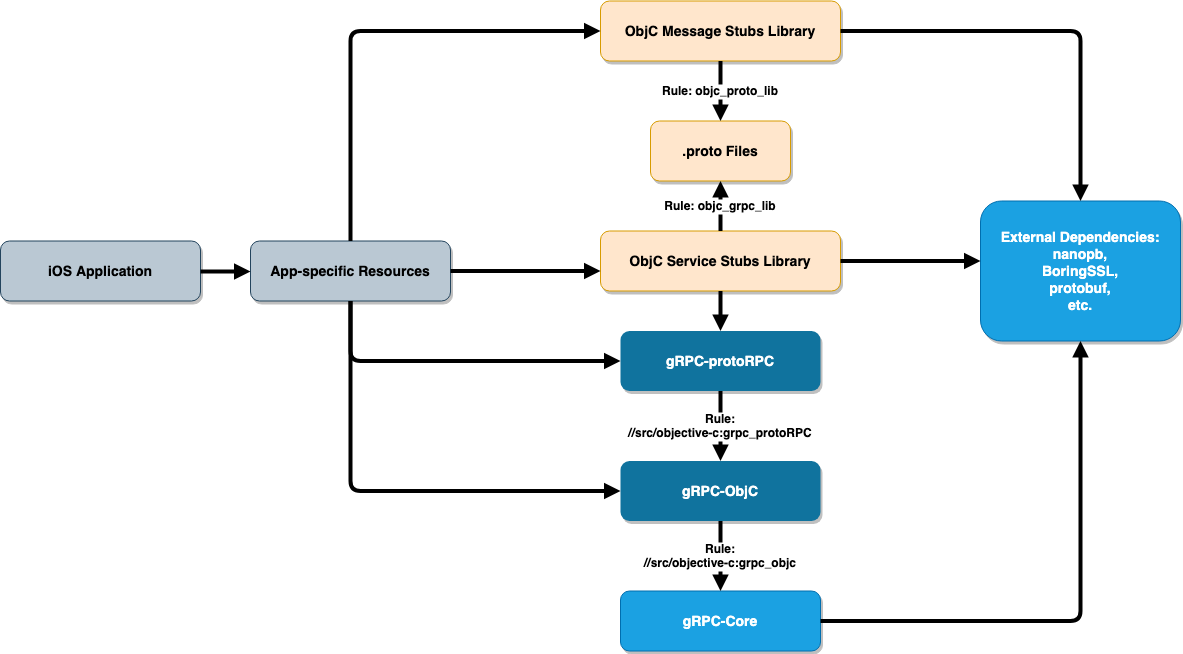
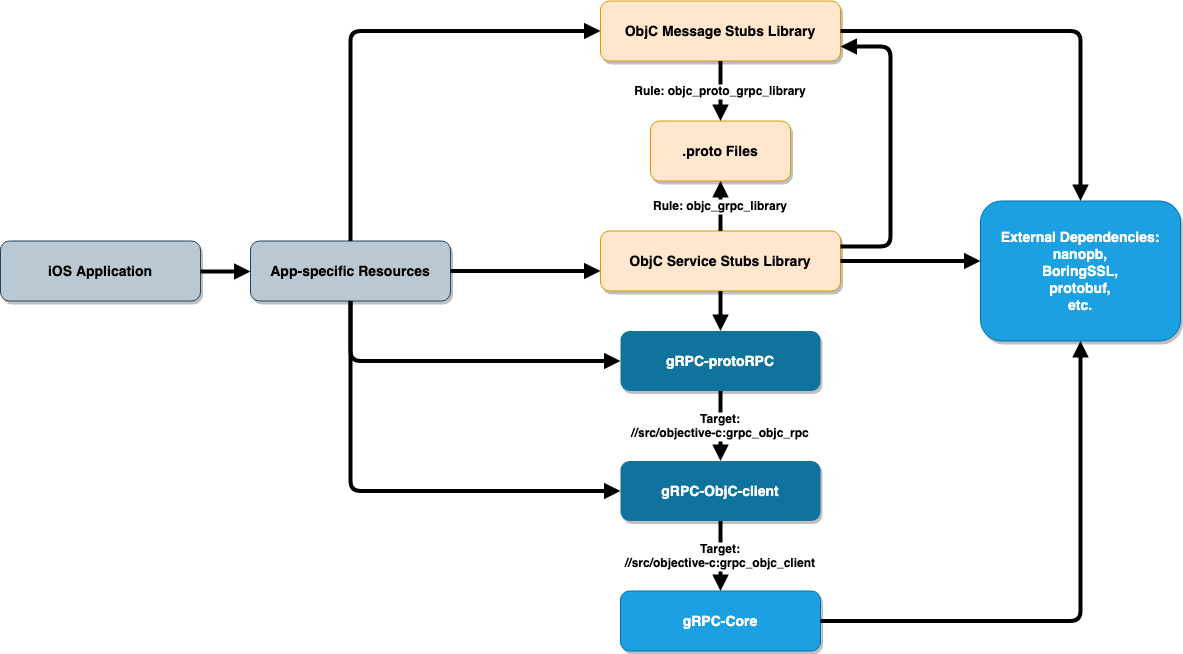
L56: rewriting proposal due to new implementation

diff --git a/L56-objc-bazel-support.md b/L56-objc-bazel-support.md
@@ -4,7 +4,7 @@ gRPC Objective-C Bazel Build Support
 * Approver: mxyan
 * Status: Draft
 * Implemented in: Bazel and Starlark
-* Last updated: Today's date
+* Last updated: Jul 11, 2019
 * Discussion at: ???
 
 ## Abstract
@@ -16,109 +16,133 @@ Proposes a set of Bazel rules for building iOS applications with gRPC Objective-
 
 The gRPC Objective-C library so far only supports installation via Cocoapods. Requests for Bazel support are continually raised.
 
-In addition to the available native rules (`objc_library` and `proto_library`), `objc_proto_lib` and `objc_grpc_lib` need to be created because the native `objc_proto_library` is actually [not usable](https://github.com/bazelbuild/bazel/issues/7348). Some other rules are also needed in order to compile the actual library.
+In addition to the available native rules (`objc_library` and `proto_library`), `objc_proto_grpc_library` (indicating that this is a working version of `objc_proto_library` written by the gRPC authors) and `objc_grpc_library` (indicating that it generates the service stubs) need to be created because the native `objc_proto_library` is actually [not usable](https://github.com/bazelbuild/bazel/issues/7348). Some other rules are also needed in order to compile the actual library from `.proto` files.
 
 ### Related Proposals
-`objc_proto_lib` and `objc_grpc_lib` are built upon the implementation of the `generate_cc` rule defined in [generate_cc.bzl](https://github.com/grpc/grpc/blob/bazel_test/bazel/generate_cc.bzl). There doesn't seem to be a proposal for that, though.
+`objc_proto_grpc_library` and `objc_grpc_library` are built upon the implementation of the `generate_cc` rule defined in [generate_cc.bzl](https://github.com/grpc/grpc/blob/bazel_test/bazel/generate_cc.bzl). There doesn't seem to be a proposal for that, though.
 
 
 ## Proposal
 
-For now, assume that the WORKSPACE root is the gRPC repository.
+For now, assume that the `WORKSPACE` root is the gRPC repository.
 
 ### Dependency Graph
 
-According to the dependencies in an iOS application that uses gRPC Objc library (shown below), we created two `objc_library` rules in the `src/objective-c` package within the `com_github_grpc_grpc` workspace: `grpc_objc` and `grpc_objc_protoRPC`.
+![gRPC Objective-C Library Dependency](L56_graphics/dependency.png)
 
-![gRPC Objective-C Library Dependency](L52_graphics/dependency.png)
+According to the dependencies in an iOS application that uses gRPC Objc library (shown below), we created two `objc_library` targets in the `src/objective-c` package within the `com_github_grpc_grpc` workspace: `grpc_objc_client` and `grpc_objc_rpc`.
 
-* Rule `//src/objective-c:grpc_objc` compiles all the files in `GRPCClient/` and `RxLibrary/`. It is dependent on a ready rule `//:grpc` which compiles core gRPC. It is publicly visible so that any application-specific Objective-C code can depend on it. It is only necessary when the app does not use protocol buffers (which means the service stub libraries, plus all that they are dependent on, are not included) - it is a rare case.
-* `//src/objective-c:grpc_protoRPC` does the `ProtoRPC/` directory. It is also made publicly visible so that the generated service stubs can be compiled depending on this rule. Users do not need to manually add this label to `deps`, though.
-* The Objective-C stubs are generated *and compiled* into native Bazel `objc_library`'s via `objc_proto_lib` and `objc_grpc_lib`. Details about these two custom rules are discussed in the upcoming sections.
-* Although "app-specific resources" depend on multiple libraries in the graph, users only need to add `objc_grpc_lib`'s and `objc_grpc_lib`'s they defined. This is because the dependency on gRPC-protoRPC and gRPC-ObjC are carried by `objc_grpc_lib`.
-* All the necessary external dependencies are loaded with `grpc_deps()` in `//bazel:grpc_deps.bzl` and are hidden from the users.
-* The app-specific code does need to depend on `//:gRPCCertificates`, which is essentially a `.pem` file.
+* Target `//src/objective-c:grpc_objc_client` compiles all the files in `GRPCClient/` and `RxLibrary/`. It is dependent on a ready rule `//:grpc` which compiles core gRPC. It is publicly visible so that any application-specific Objective-C code can depend on it. It is only necessary when the app does not use protocol buffers (which means the service stub libraries, plus all that they are dependent on, are not included) - it is a rare case.
+* `//src/objective-c:grpc_objc_rpc` does the `ProtoRPC/` directory. It is also made publicly visible so that the generated service stubs can be compiled depending on this rule. Users do not need to manually add this label to `deps`, though.
+* The Objective-C stubs are generated *and compiled* into native Bazel `objc_library` targets via `objc_proto_grpc_library` and `objc_grpc_library`. Details about these two custom rules are discussed in the upcoming sections.
+* Although "app-specific resources" depend on multiple libraries in the graph, users only need to add `objc_proto_grpc_library`'s and `objc_grpc_library`'s they defined. This is because the dependency on gRPC-protoRPC and gRPC-ObjC-client are carried along by those two rules.
+* All the necessary external dependencies are loaded with `grpc_deps()` in `//bazel:grpc_deps.bzl` and are hidden from users.
 
 ### Rules for Compiling `.proto` Files
 
-The gist of these custom rules is to run protobuf compiler and Objective-C plugin on provided `.proto` files with `ctx.action.run`. They are available from `@com_google_protobuf//:protoc` and `@com_github_grpc_grpc//:grpc_objective_c_plugin`.
+The gist of these custom rules is to run protobuf compiler and Objective-C plugin on provided `.proto` files with `ctx.action.run`. Those executables are available from `@com_google_protobuf//:protoc` and `@com_github_grpc_grpc//:grpc_objective_c_plugin`.
 
-We use the native `proto_library` rule as a manager for `.proto` files (i.e. their package paths and dependencies). They wrap the proto files and are passed into `objc_proto_lib` and `objc_grpc_lib` as `srcs`. As a result of using `proto_library`, proto files must not reside in a upper-level directory to the `BUILD` file.
+We use the native `proto_library` rule as a manager for `.proto` files (i.e. their package paths and dependencies). They wrap the `.proto` files and are passed into `objc_proto_grpc_library` and `objc_grpc_library` as `deps`.
 
-Due to naming rules within the protobuf compiler, we first need to convert file names into camel case in order to correctly declare all the output files. File extensions are either `.pbobjc.h/.m` or `.pbrpc.h/.m`, give the pair of files that will be compiled (Messages or Services, respectively) as a boolean parameter.
+`objc_proto_grpc_library` takes in as `deps` a list of `proto_library` targets and geneates the message stubs (excluding the service ones) for these targets and all their transitively dependent protos.
 
-The ObjC plugin is one of the arguments. The precise arguments is formatted by the libary function `get_plugin_args` provided in `//bazel:protobuf.bzl`.
+`objc_grpc_library`, in addition to `proto_library` targets, takes in a list of file names of `.proto` files as `srcs`. The list of `.proto` files should all contain service stubs; otherwise Bazel will complain about certain `.pbrpc.{h,m}` files not being generated. `objc_grpc_library`, in addition to message stubs, generates services stubs for a `.proto` file if and only if the `.proto` file is listed in `srcs`.
 
-If the proto files are depend on any of the "well known" proto files like `empty.proto` defined in `@com_google_protobuf//google/protobuf/`, this external rule `@com_google_protobuf//:well_known_protos` is needed in order to add those files into arguments.
+As a result of compiling every `.proto` files in the dependency chain, the app-specific code only needs to depend on the one or the few `objc_(proto_)grpc_library`'s at the bottom of the dependency graph.
 
-Outputs will be generated in directories managed by Bazel. They will be further splitted into two groups - one for `hdrs` and the other for `srcs`/`non_arc_srcs` - and then passed into a native `objc_library` rule for the final compiled library. Note that one `objc_proto/grpc_lib` might need to depend on others as well.
+For both rules, it is also possible to tell that [well known protos](https://github.com/protocolbuffers/protobuf/tree/master/src/google/protobuf) are required in the dependency, by passing `True` for the field `use_well_known_protos`.
+
+In terms of the execution of `protoc`, the command is similar to that in a [podspec](https://github.com/grpc/grpc/blob/0803c79411597f58eae0b12b4eb272c506b8cdbb/examples/objective-c/helloworld/HelloWorld.podspec) (all `.proto` targets in `deps`, including their transitive dependencies, are provided as inputs, and their directory from the `WORKSPACE` root are added to `-I` flags programmatically). The output directory is set to `//bazel-out/<*product type specific*>/bin/<package name>/_generated_protos/` so that bazel is able to locate the generated files.
+
+Generated files in the directory above follow the same hiearchy as the `.proto` files. Consider this project where we are building from package `//A`:
+
+![Hiearchy Example](L56_graphics/hiearchy1.png)
+
+The resulting structure in `bin` will be:
+
+![Hiearchy Result Example](L56_graphics/hiearchy2.png)
+
+Lastly, three other targets are created to split the files into `hdrs`, `srcs` (potentially empty, since there might be no service stubs), and `non_arc_srcs`. They will be fed into a `objc_library` rule.
+
+When `#import`-ing `.proto` and `.pb*.{h,m}` files, always use their *absolute paths* from the `WORKSPACE` root.
+
 
 ### Example
 
-Suppose a very simple HelloWorldClient project with a single proto file `//HelloWorld/hello.proto` with both messages and services. Assume that it depends on one of the well known protos.
+Consider the hiearchy from the above section and further suppose that `world.proto` imports both `hello.proto` and `grpc.proto`. Also suppose that `grpc.proto` and `world.proto` have service stubs defined which we would like to use.
 
-Configure `WORKSPACE` as instructed in this [tutorial](https://docs.bazel.build/versions/master/tutorial/ios-app.html) and also load `grpc_deps`:
+Note that the correct import statements in `world.proto` should be:
+```
+#import "A/protos/library/hello.proto"
+#import "B/D/grpc.proto"
+```
+
+Configure `WORKSPACE` as instructed in this [tutorial](https://docs.bazel.build/versions/master/tutorial/ios-app.html) and also load `grpc_deps` for binding external git repositories such as `@com_google_protobuf`:
 ```
 git_repository(
     name = "com_github_grpc_grpc",
     remote = "https://github.com/grpc/grpc.git",
     branch = "master"
 )
+
 load("@com_github_grpc_grpc//bazel:grpc_deps.bzl", "grpc_deps")
+
 grpc_deps()
 ```
 
-And here is the `BUILD` file:
+The `BUILD` file for this sample project can be written similar to the following snippet. Assume that this is the `BUILD` file for package `//A` and there is a `proto_library` target defined in package `//B` for `grpc.proto`, named `grpc_proto`.
 ```
 load("@build_bazel_rules_apple//apple:ios.bzl", "ios_application")
 load(
     "@com_github_grpc_grpc//bazel:grpc_objc_library.bzl", 
-    "objc_proto_lib", 
-    "objc_grpc_lib",
+    # we don't need "objc_proto_grpc_library" because world.proto has services defined 
+    "objc_grpc_library",
+)
+
+proto_library(
+    name = "world_proto",
+    srcs = ["protos/world.proto"],
+    deps = [
+        ":hello_proto",
+        "//B:grpc_proto"
+    ]
 )
 proto_library(
     name = "hello_proto",
-    srcs = ["HelloWorld/hello.proto"]
+    srcs = ["protos/library/hello.proto"]
 )
-objc_proto_lib(
-    name = "hello_proto_objc",
-    srcs = [":hello_proto"],
-    use_well_known_protos = True
+objc_grpc_library(
+    name = "world_grpc_objc",
+    srcs = [
+        "protos/world.proto",
+        "//B/D/grpc.proto", # since we need the service stubs from these two files
+    ],
+    deps = [":world_proto"]
 )
-objc_grpc_lib(
-    name = "hello_grpc_objc",
-    srcs = [":hello_proto"],
-    deps = [":hello_proto_objc"],
-    use_well_knonw_protos = True
-)
+
 # app-specific library below
 objc_library(
-    name = "HelloWorldLibrary",
+    name = "exampleObjCLibrary",
     ...
-    deps = [
-        ":hello_proto_objc",
-        ":hello_grpc_objc",
-        "@com_github_grpc_grpc//:gRPCCertificates"
-    ]
+    deps = [":world_grpc_objc"]
 )
 ios_application(
     ...
-    deps = [":HelloWorldLibrary"]
+    deps = [":exampleObjCLibrary"]
 )
 ```
-Import the `hello.proto` stubs like:
+Again, import the geneated stubs in the app-specific source files as:
 ```
-#import <HelloWorld/Hello.pbobjc.h>
+#import "A/proto/Hello.pbrpc.h"
+#import "B/D/Grpc.pbrpc.h"
 ```
 
 
 ## Implementation
 
-The implementation is almost complete. Simple use cases like the one above are already functional.
+The implementation is almost done by tonyzhehaolu.
 
 
-## Open issues
+## Open Issues
 
-For the time being, the paths of `.proto` files are really significant. For instance, in the official route guide [example](https://github.com/grpc/grpc/tree/master/examples) by gRPC authors, the proto files are organized in `//proto/route_guide.proto`. With the current implementation, the import path will be `#import<proto/RouteGuide.pbrpc.h>`. It should be better if we can set it to `#import<RouteGuide/RouteGuide.pbrpc.h>`. This is plausible but still being experimented. It will not break the existing API, but at most add an argument in `objc_proto_lib` and `objc_grpc_lib`.
-
-If the `proto_library` is compiled on its own, Bazel might complain that some symbols are not defined, which is not resolvable without breaking our custom rules. We are thinking about using only file names as `srcs` instead of `proto_library` targets.
+The way to specify which `.proto` files (in rule `objc_grpc_library`) need to be compiled also for service stubs is open for discussion. For now, if the `.proto` file resides within the package root, it's referred to with a path relative to the package root (`protos/world.proto`); otherwise, it's referred to with an absolute path from the `WORKSPACE` root (`//B/D/grpc.proto`). 
